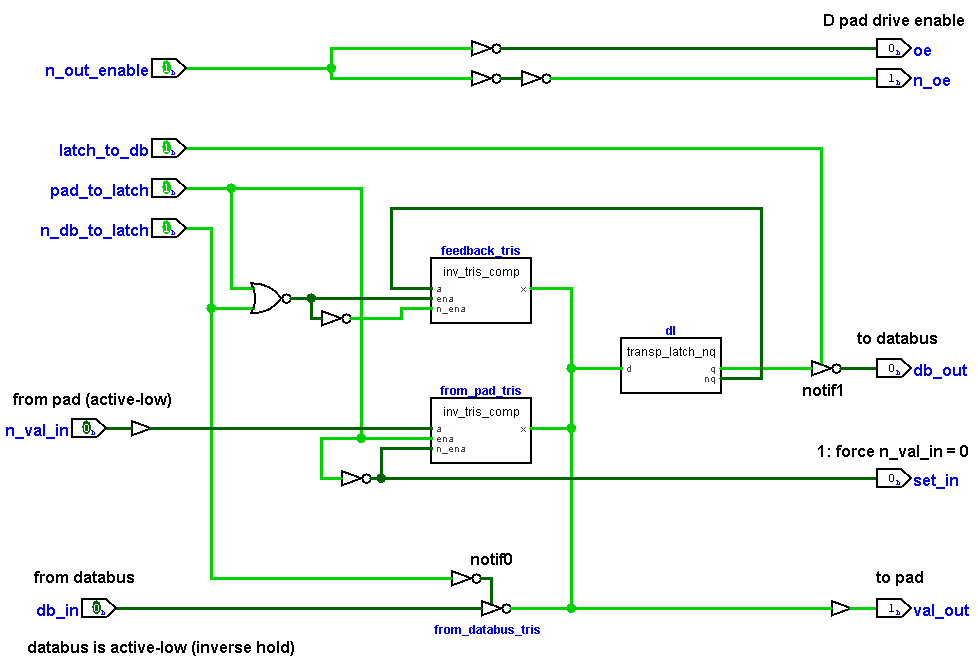
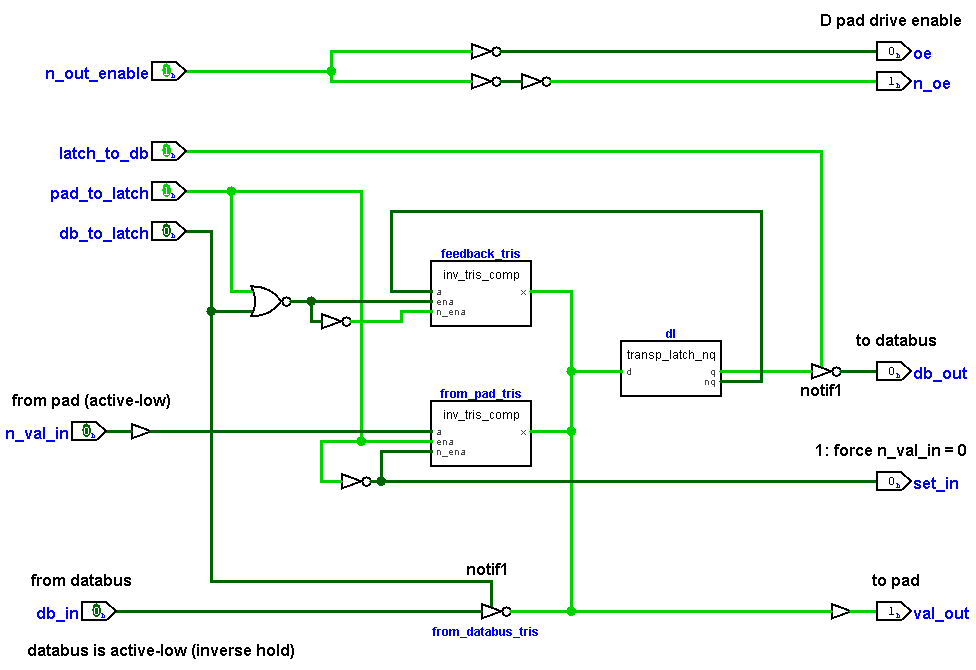
db_to_latch active high

diff --git a/T84C/db.md b/T84C/db.md
@@ -28,7 +28,7 @@
 |n_val_in|с пада|Вход с пада (active low) |
 |set_in|на пад|Сделать n_val_in = 0 (входное значение = 1)|
 |n_out_enable|с логики управления DataBus|Из этого сигнала получается 2 комплементных oe+/oe|
-|n_db_to_latch|с логики управления DataBus| Внутренняя Databus -> Data Latch|
+|db_to_latch|с логики управления DataBus| Внутренняя Databus -> Data Latch|
 |latch_to_db|с логики управления DataBus| Data Latch -> Внутренняя Databus |
 |pad_to_latch|с логики управления DataBus| Pad -> Data Latch;  Если неактивны все сигналы x -> y, то DataLatch заколцовывается сам на себя (FF) |
 |db| |Внутренняя шина данных |
@@ -39,7 +39,7 @@ Features:
 - Содержит прозрачную защёлку, которую принято называть просто "datalatch" (dl)
 - Защёлка dl получает на вход дерево из 3 тристейтов:
 	- Если активен сигнал pad_to_latch, то значение с пада 
-	- Если активен сигнал n_db_to_latch=0, то значение с внутренней шд
+	- Если активен сигнал db_to_latch, то значение с внутренней шд
 	- Если не активны вышеуказанные сигналы, то защёлка фидит сама себя, таким образом формируя flip flop
 - Значение с дерева тристейтов (которое всегда драйвится по соглашению) также выдаётся обратно на пад (val_out), а также по требованию (latch_to_db) на внутреннюю шд
 - Драйв пада D контролируется сигналом n_out_enable=0, формируя комплементы oe+/oe
